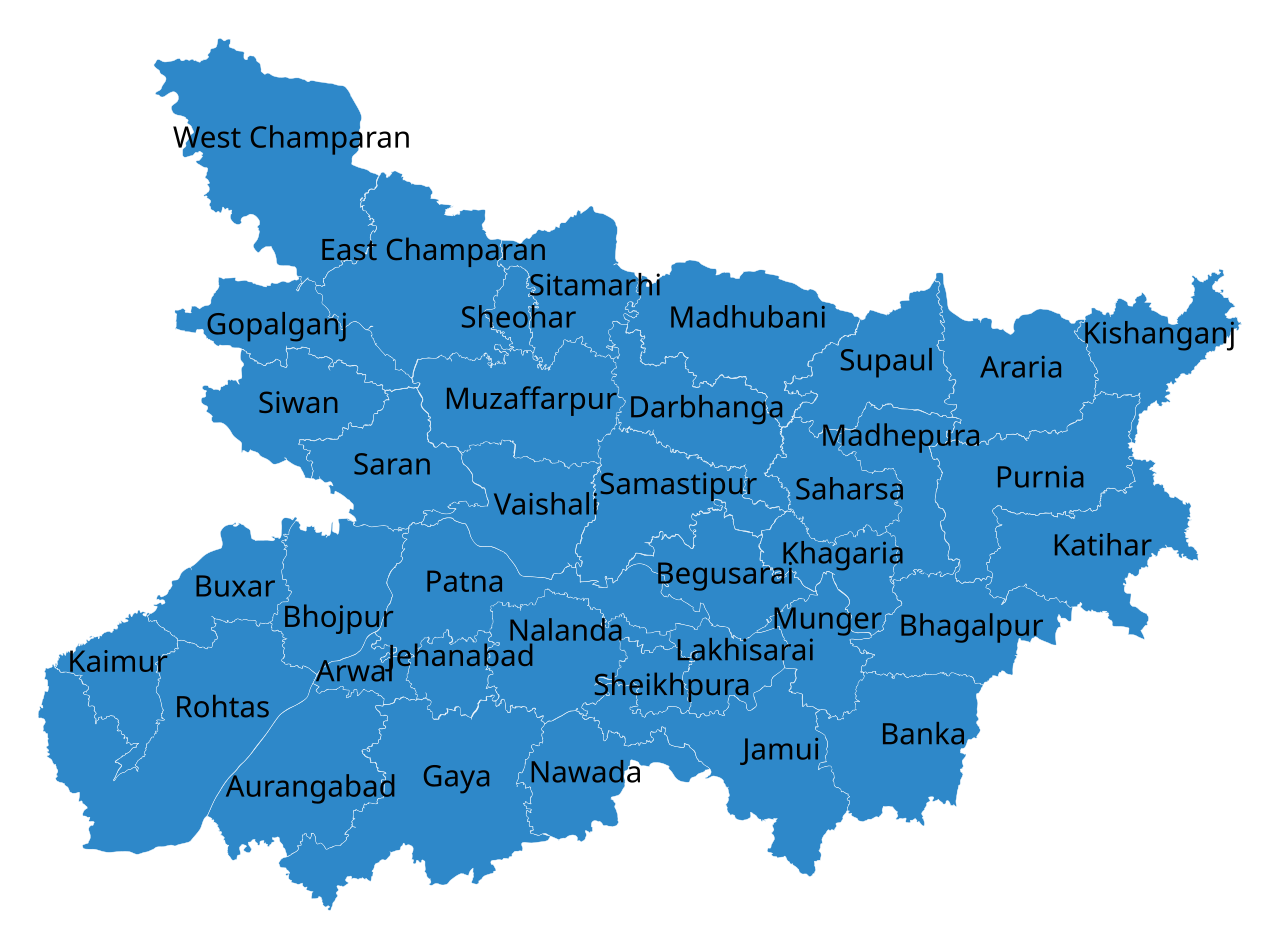
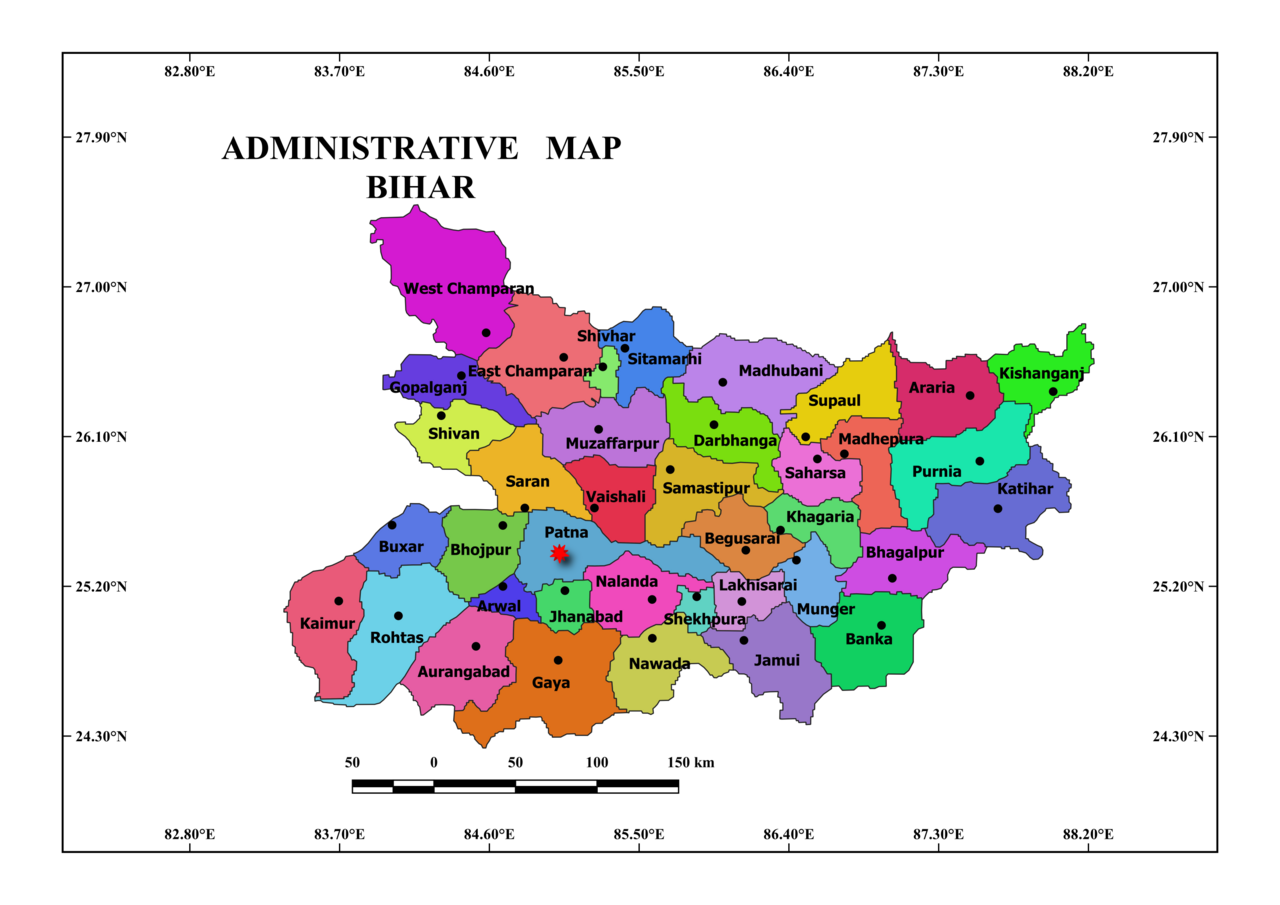
feat: edge-to-edge maximized 16:9, cutting creases, white bg Bihar map

diff --git a/scripts/generate_cbse_sheets.py b/scripts/generate_cbse_sheets.py
@@ -1,19 +1,20 @@
 #!/usr/bin/env python3
 """
-CBSE Class 10 English Project Sheet Generator (V4 - Maximized 16:9, No Cut Lines/Notes)
+CBSE Class 10 English Project Sheet Generator (V5 - Edge-to-Edge Maximized 16:9, Crease Guides)
 "Bihar and Tripura: A Comparison of Cultural Heritage, Festivals, and Food"
 
 Features:
-- Maximized 16:9 photos (1185x666 px) filling the A4 page width with minimal gaps
-- NO cut lines, NO dashed borders, NO scissor hints, NO student notes prompts
-- Smart 16:9 framing: faces, traditional dresses, and authentic dishes fully preserved
+- Maximized 16:9 photos (1220x686 px) extending edge-to-edge with virtually NO side bezel (MARGIN_X = 12 px)
+- Subtle cutting crease guide lines between columns and rows for effortless scissor cutting
+- Clean white background guaranteed for all maps (no black/dark transparency artifacts)
+- High-resolution Administrative Map of Bihar + Official Tripura District Map
 - Authentic HD photography:
-  * Real Tripuri Girls in traditional Rignai & Risa
+  * Tripuri girls in handwoven Rignai & Risa with faces fully in focus
   * Authentic Tripuri Mui Borok Thali
   * Authentic Tripuri Fermented Food (Gudok / Gwdwk made with Berma)
-  * Live Kharchi Puja festival celebration
-- Sheet 4: Clean State Maps of Bihar and Tripura with centered titles and open writing space
-- Output: 4 print-ready A4 PNGs (300 DPI) and 1 compiled PDF
+  * Live Kharchi Puja celebration
+- Centered simple titles under each photo
+- Output: 4 print-ready A4 PNGs (300 DPI) and 1 compiled master PDF
 """
 
 import os
@@ -23,23 +24,25 @@ from PIL import Image, ImageDraw, ImageFont
 
 PAGE_W = 2480
 PAGE_H = 3508
-MARGIN_X = 40  # Tight margins to maximize photo dimensions
+
+# Edge-to-Edge Margins (Virtually no side bezel)
+MARGIN_X = 12
+COL_GAP = 16
+
+# Maximized 16:9 Photo Dimensions
+IMG_W = (PAGE_W - (MARGIN_X * 2) - COL_GAP) // 2  # 1220 px
+IMG_H = int(IMG_W * 9 / 16)                        # 686 px (Exact 16:9)
+
+GAP_IMG_TEXT = 12
+TEXT_H = 46
+CARD_H = IMG_H + GAP_IMG_TEXT + TEXT_H            # 744 px
+ROW_GAP = 40
 
 # Colors
 COLOR_BG = (255, 255, 255)
 COLOR_PHOTO_BORDER = (203, 213, 225)
 COLOR_TEXT = (15, 23, 42)
-
-# Maximized 16:9 Dimensions
-COL_GAP = 30
-IMG_W = (PAGE_W - (MARGIN_X * 2) - COL_GAP) // 2  # 1185 px
-IMG_H = int(IMG_W * 9 / 16)                        # 666 px (Exact 16:9)
-
-GAP_IMG_TEXT = 14
-TEXT_H = 46
-CARD_W = IMG_W
-CARD_H = IMG_H + GAP_IMG_TEXT + TEXT_H            # 726 px
-ROW_GAP = 40
+COLOR_CREASE = (226, 232, 240) # Faint crease cut guide
 
 def get_font(size, bold=False):
     candidates = [
@@ -55,7 +58,17 @@ def get_font(size, bold=False):
                 pass
     return ImageFont.load_default()
 
+def ensure_white_bg(img):
+    """Converts any transparent/RGBA image to solid RGB on a pure white background."""
+    if img.mode in ("RGBA", "LA") or (img.mode == "P" and "transparency" in img.info):
+        rgba = img.convert("RGBA")
+        white_bg = Image.new("RGBA", rgba.size, (255, 255, 255, 255))
+        composite = Image.alpha_composite(white_bg, rgba)
+        return composite.convert("RGB")
+    return img.convert("RGB")
+
 def crop_to_16_9(img, target_w, target_h, focus="center"):
+    img = ensure_white_bg(img)
     iw, ih = img.size
     scale = max(target_w / iw, target_h / ih)
     nw = int(iw * scale)
@@ -64,9 +77,9 @@ def crop_to_16_9(img, target_w, target_h, focus="center"):
 
     cx = (nw - target_w) // 2
     if focus == "top":
-        cy = max(0, int((nh - target_h) * 0.12))
+        cy = max(0, int((nh - target_h) * 0.10))
     elif focus == "bottom":
-        cy = max(0, int((nh - target_h) * 0.88))
+        cy = max(0, int((nh - target_h) * 0.90))
     else:
         cy = max(0, (nh - target_h) // 2)
 
@@ -76,13 +89,13 @@ def render_maximized_card(canvas, x0, y0, img_obj, headline, focus="center", com
     draw = ImageDraw.Draw(canvas)
     center_x = x0 + IMG_W // 2
 
-    # 1. Photo Area (Exact 16:9, No Cut Lines, No Dashed Boxes)
+    # 1. Photo Area (Exact 16:9 with subtle clean border)
     if comparison_pair is None:
         cropped = crop_to_16_9(img_obj, IMG_W, IMG_H, focus=focus)
         canvas.paste(cropped, (x0, y0))
         draw.rectangle([(x0, y0), (x0 + IMG_W, y0 + IMG_H)], outline=COLOR_PHOTO_BORDER, width=2)
     else:
-        # Split Side-by-Side Comparison inside the exact 16:9 box
+        # Side-by-side comparison inside 16:9 frame
         img1, img2, lbl1, lbl2 = img_obj
         half_w = (IMG_W - 8) // 2
         c1 = crop_to_16_9(img1, half_w, IMG_H, focus=focus)
@@ -92,7 +105,6 @@ def render_maximized_card(canvas, x0, y0, img_obj, headline, focus="center", com
         draw.rectangle([(x0, y0), (x0 + half_w, y0 + IMG_H)], outline=COLOR_PHOTO_BORDER, width=2)
         draw.rectangle([(x0 + half_w + 8, y0), (x0 + IMG_W, y0 + IMG_H)], outline=COLOR_PHOTO_BORDER, width=2)
 
-        # Centered sub-labels
         font_sub = get_font(20, bold=True)
         h1_cx = x0 + half_w // 2
         lbl1_bbox = draw.textbbox((0, 0), lbl1, font=font_sub)
@@ -106,28 +118,45 @@ def render_maximized_card(canvas, x0, y0, img_obj, headline, focus="center", com
         draw.rounded_rectangle([(h2_cx - lbl2_w // 2, y0 + IMG_H - 40), (h2_cx + lbl2_w // 2, y0 + IMG_H - 10)], radius=4, fill=(0, 0, 0))
         draw.text((h2_cx, y0 + IMG_H - 25), lbl2, fill=(255, 255, 255), font=font_sub, anchor="mm")
 
-    # 2. Simple Headline - Centered in Middle under the Photo (No descriptions)
+    # 2. Simple Headline - Centered in middle
     text_y = y0 + IMG_H + GAP_IMG_TEXT
     font_head = get_font(30, bold=True)
     draw.text((center_x, text_y), headline, fill=COLOR_TEXT, font=font_head, anchor="mt")
+
+def draw_sheet_cutting_creases(canvas, start_y):
+    """Draws subtle, clean cutting crease lines down the middle column and between rows."""
+    draw = ImageDraw.Draw(canvas)
+    
+    # Vertical crease down the exact center
+    mid_x = MARGIN_X + IMG_W + (COL_GAP // 2)
+    grid_total_h = (3 * CARD_H) + (2 * ROW_GAP)
+    draw.line([(mid_x, start_y - 20), (mid_x, start_y + grid_total_h + 20)], fill=COLOR_CREASE, width=1)
+
+    # Horizontal creases between rows
+    r1_crease_y = start_y + CARD_H + (ROW_GAP // 2)
+    r2_crease_y = start_y + (2 * CARD_H) + ROW_GAP + (ROW_GAP // 2)
+    draw.line([(MARGIN_X, r1_crease_y), (PAGE_W - MARGIN_X, r1_crease_y)], fill=COLOR_CREASE, width=1)
+    draw.line([(MARGIN_X, r2_crease_y), (PAGE_W - MARGIN_X, r2_crease_y)], fill=COLOR_CREASE, width=1)
 
 def render_clean_state_map(canvas, x0, y0, box_w, box_h, map_img, headline):
     draw = ImageDraw.Draw(canvas)
     center_x = x0 + box_w // 2
 
-    # Map Box (75% height)
-    map_area_h = int(box_h * 0.78)
-    mw, mh = map_img.size
+    # Ensure pure white background
+    clean_map = ensure_white_bg(map_img)
+
+    map_area_h = int(box_h * 0.80)
+    mw, mh = clean_map.size
     scale = min(box_w / mw, map_area_h / mh)
     rmw = int(mw * scale)
     rmh = int(mh * scale)
-    resized_map = map_img.resize((rmw, rmh), Image.Resampling.LANCZOS)
+    resized_map = clean_map.resize((rmw, rmh), Image.Resampling.LANCZOS)
 
     mx = x0 + (box_w - rmw) // 2
     my = y0 + (map_area_h - rmh) // 2
     canvas.paste(resized_map, (mx, my))
 
-    # Centered Title (No descriptions, no cut lines, no student notes text)
+    # Centered Title
     title_y = y0 + map_area_h + 20
     font_head = get_font(42, bold=True)
     draw.text((center_x, title_y), headline, fill=COLOR_TEXT, font=font_head, anchor="mt")
@@ -136,7 +165,7 @@ def create_blank_sheet():
     return Image.new("RGB", (PAGE_W, PAGE_H), COLOR_BG)
 
 def main():
-    print("[*] Generating Maximized 16:9 CBSE Sheets & Single PDF...")
+    print("[*] Generating Edge-to-Edge 16:9 CBSE Sheets & Single PDF...")
     os.makedirs("output_cbse", exist_ok=True)
 
     assets = {
@@ -163,16 +192,16 @@ def main():
     imgs = {}
     for key, path in assets.items():
         if os.path.exists(path):
-            imgs[key] = Image.open(path).convert("RGB")
+            imgs[key] = Image.open(path)
         else:
             print(f"[!] Warning: Missing {path}")
 
     # Fallback for India map
     if "map_india_combined" not in imgs:
         if os.path.exists("cbse_project_assets/16_Map_Bihar_in_India.png"):
-            imgs["map_india_combined"] = Image.open("cbse_project_assets/16_Map_Bihar_in_India.png").convert("RGB")
+            imgs["map_india_combined"] = Image.open("cbse_project_assets/16_Map_Bihar_in_India.png")
 
-    # Grid calculation (2 columns x 3 rows)
+    # Grid calculation
     c0_x = MARGIN_X
     c1_x = c0_x + IMG_W + COL_GAP
 
@@ -190,6 +219,7 @@ def main():
     # ==================== SHEET 1: BIHAR SECTION ====================
     print("[*] Rendering Sheet 1: Bihar Section...")
     sheet1 = create_blank_sheet()
+    draw_sheet_cutting_creases(sheet1, start_y)
     x, y = get_pos(0, 0); render_maximized_card(sheet1, x, y, imgs["nalanda"], "Nalanda Ancient University Ruins")
     x, y = get_pos(1, 0); render_maximized_card(sheet1, x, y, imgs["mahabodhi"], "Mahabodhi Temple, Bodh Gaya")
     x, y = get_pos(0, 1); render_maximized_card(sheet1, x, y, imgs["chhath"], "Chhath Puja Celebrations")
@@ -201,7 +231,7 @@ def main():
     # ==================== SHEET 2: TRIPURA SECTION ====================
     print("[*] Rendering Sheet 2: Tripura Section...")
     sheet2 = create_blank_sheet()
-    # Traditional dress with focus="top" so faces and outfits are perfectly visible
+    draw_sheet_cutting_creases(sheet2, start_y)
     x, y = get_pos(0, 0); render_maximized_card(sheet2, x, y, imgs["tripura_dress"], "Traditional Tribal Dress of Tripura", focus="top")
     x, y = get_pos(1, 0); render_maximized_card(sheet2, x, y, imgs["kharchi_celebration"], "Kharchi Puja Celebrations")
     x, y = get_pos(0, 1); render_maximized_card(sheet2, x, y, imgs["fourteen_deities"], "The Fourteen Deities (Chaturdash Devta)")
@@ -213,6 +243,7 @@ def main():
     # ==================== SHEET 3: COMPARISON & CUISINE ====================
     print("[*] Rendering Sheet 3: Comparison & Geography...")
     sheet3 = create_blank_sheet()
+    draw_sheet_cutting_creases(sheet3, start_y)
     x, y = get_pos(0, 0); render_maximized_card(sheet3, x, y, imgs["mosdeng"], "Traditional Fermented Food (Gudok / Berma)")
     x, y = get_pos(1, 0); render_maximized_card(sheet3, x, y,
                                                (imgs["chhath"], imgs["kharchi_celebration"], "Chhath Puja (Bihar)", "Kharchi Puja (Tripura)"),
@@ -231,10 +262,15 @@ def main():
     print("[*] Rendering Sheet 4: State District Maps...")
     sheet4 = create_blank_sheet()
     map_box_w = PAGE_W - (MARGIN_X * 2)
-    map_box_h = (PAGE_H - 160) // 2
+    map_box_h = (PAGE_H - 120) // 2
 
-    render_clean_state_map(sheet4, MARGIN_X, 60, map_box_w, map_box_h, imgs["map_bihar"], "State Map of Bihar")
-    render_clean_state_map(sheet4, MARGIN_X, 60 + map_box_h + 40, map_box_w, map_box_h, imgs["map_tripura"], "State Map of Tripura")
+    # Draw middle crease between top and bottom maps
+    draw4 = ImageDraw.Draw(sheet4)
+    mid_map_y = 50 + map_box_h + 10
+    draw4.line([(MARGIN_X, mid_map_y), (PAGE_W - MARGIN_X, mid_map_y)], fill=COLOR_CREASE, width=1)
+
+    render_clean_state_map(sheet4, MARGIN_X, 50, map_box_w, map_box_h, imgs["map_bihar"], "State Map of Bihar")
+    render_clean_state_map(sheet4, MARGIN_X, 50 + map_box_h + 20, map_box_w, map_box_h, imgs["map_tripura"], "State Map of Tripura")
     sheet4.save("output_cbse/Page_4_State_Maps.png", "PNG", dpi=(300, 300))
 
     # ==================== MASTER PDF COMPILATION ====================
